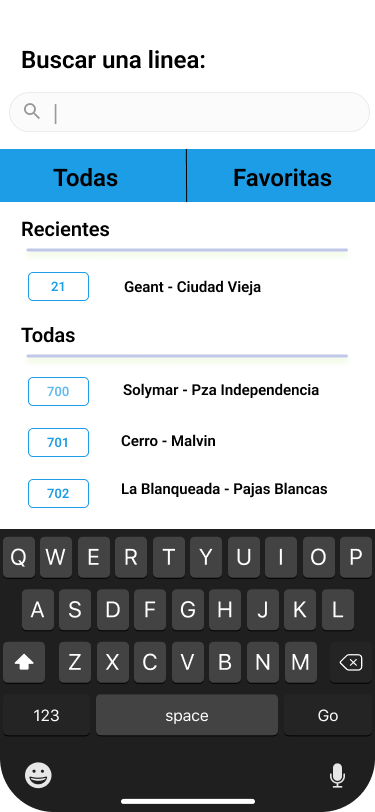
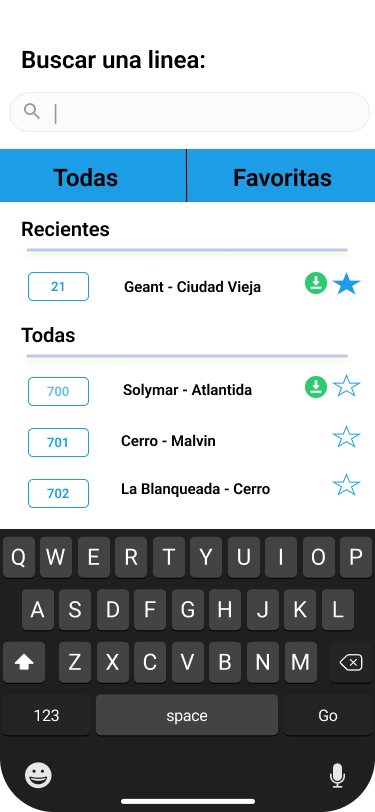
Finished adding user stories

diff --git a/Documentacion.md b/Documentacion.md
@@ -3,16 +3,6 @@ Pablo Tomas Martinez 241532.
 Amar Premchand 247766.
 Salvador Panissa 245625.
 
-# Sprint 1
-
-### Roles:
-
-Pablo Tomas Martinez (Developer).
-Amar Premchand (Scrum Master, Developer).
-Salvador Panissa (Product Owner).
-
-#### Responsabilidad de cada rol
-
 **Scrum Master:** El SM ayuda al Scrum Team a que funcione como equipo, que el mismo cree incrementos de alto valor que matchee la *Definition of Done*. 
 
 **Product Owner:** La responsabilidad del PO se basa en trasmitir al equipo de desarrollo el *Product Goal*. Prioriza las funcionalidades que van a ser desarrolladas para cada iteración y ayuda a que las mismas sean entendidas por los desarrolladores.
@@ -26,6 +16,17 @@ Se trata de inspeccionar que los items del Product Backlog sean comprendidos por
 
 ### Definition of Done:
 La definición de *Done* describe que es necesario para que el próximo incremento del producto pueda darse por finalizado y entregable a un usuario final.
+
+
+# Sprint 1
+
+### Roles:
+
+Pablo Tomas Martinez (Developer).
+Amar Premchand (Scrum Master, Developer).
+Salvador Panissa (Product Owner).
+
+#### Responsabilidad de cada rol
 
 # **Identificación del problema a resolver**
 
@@ -180,7 +181,7 @@ COMO usuario
 
 ## US1-E1:
 
-COMO montevideano
+COMO usuario
 
 QUIERO filtrar líneas de un listado
 
@@ -214,7 +215,7 @@ QUIERO un listado con las líneas cercanas a mi ubicación con información
 
 PARA elegir una línea sobre otra
 
-NOTA: información de parada de origen, destino y cantidad de pasajeros
+NOTA: información de parada de origen, destino.
 
 ### Criterios de Aceptación:
 
@@ -470,7 +471,7 @@ ENTONCES se le notifica al usuario
 
 ## US12-E4:
 
-COMO persona
+COMO usuario
 
 QUIERO conocer si mi línea se retrasó o tiene un desvío
 
@@ -605,7 +606,7 @@ A la vez, en el detalle del viaje, se puede acceder a las paradas mediante el bo
 
 
 #### US 9:
-Si nos encontramos en un viaje y clickeamos sobre el icono de compartir; podremos hacerlo a través de Whatsapp o mensajes a un contacto, tal como se muestra a continuación:
+Si nos encontramos en un viaje y clicábamos sobre el icono de compartir; podremos hacerlo a través de Whatsapp o mensajes a un contacto, tal como se muestra a continuación:
  
 <img src="images/live-travel.png"/>
 <br><br>
@@ -640,9 +641,9 @@ Salvador Panissa (Product Owner).
 
 ## Sprint planning 
 
-El objetivo de la siguiente sprint agregar funcionalidades de feedback para mejorar la experencia de usuario y agregar el modo offline, funcionalidad que nos diferenciará de la competencia. 
+El objetivo de la siguiente sprint agregar funcionalidades de feedback para mejorar la experiencia de usuario y agregar el modo offline, funcionalidad que nos diferenciará de la competencia. 
 
-Para este sprint contamos con una referencia de velocidad del equipo la cual fue de 28 puntos de trabajo en el sprint. Tomando en cuenta lo analizado en la retroespectiva, podemos esperar mejorar la comunicación y organización para así estar más atentos a los errores en esta sprint, de esta manera mejorar nuestra velocidad como equipo.
+Para este sprint contamos con una referencia de velocidad del equipo la cual fue de 28 puntos de trabajo en el sprint. Tomando en cuenta lo analizado en la retrospectiva, podemos esperar mejorar la comunicación y organización para así estar más atentos a los errores en esta sprint, de esta manera mejorar nuestra velocidad como equipo.
 
 ## Story map
 
@@ -667,9 +668,9 @@ A partir del objetivo del sprint y la priorización de las historias decidimos e
 Para la sección de registro decidimos crear una barra lateral donde el usuario podrá iniciar sesión o registrarse.
 
 <img src="images/Sidebar-NotLoggedIn.png"/>
-sidebarLogged VA ACA
+<img src="images/Sidebar-loggedIn.png">
 
-En el caso de que estemos loggeados entonces podremos agregar líneas y paradas a favoritos clickeando sobre "Líneas" y "Paradas" respectivamente en el menú principal y acceder a las mismas desde allí.
+En el caso de que estemos logueados entonces podremos agregar líneas y paradas a favoritos clickeando sobre "Líneas" y "Paradas" respectivamente en el menú principal y acceder a las mismas desde allí.
 
 <img src="images/favourite-lines.png"/>
 
@@ -680,32 +681,117 @@ Al momento de iniciar sesión tenemos la opción de olvidar nuestra contraseña,
 
 <img src="images/Login-Screen.png"/>
 
-Nos lleva a la siguiente pantalla donde ingresamos nuestro correo electrónico para que podamos recuperar nuestra cuenta.
+Si el usuario selecciona este botón se le envía un correo al email ingresado con instrucciones para recuperar la cuenta.
 
 <img src="images/forgot-password.png"/>
 
 #### US 6:
-A la hora de buscar las paradas, estas se deberian poder filtrar por paradas además de poder visualizar las paradas marcadas como favoritos.
+A la hora de buscar las paradas, estas se deberían poder filtrar por paradas además de poder visualizar las paradas marcadas como favoritos.
+
+<img src="images/filter-lines.png"/>
 
 
-<img src="images/filtrar-paradas.png"/>
+<img src="images/favourite-lines.png"/>
 
+#### US 2 - ID 8:
+Cuando el usuario selecciona un origen y un destino del viaje, aparecen todas las posibles combinaciones de trayectos que lo llevan a ese destino. Allí el usuario en base a sus preferencias de tiempo de viaje, cantidad de trasbordos, línea favorita, etc., puede decidir que viaje tomar.
 
-<img src="images/favourite-stops.png"/>
+<img src="images/found-routes.png">
 
+#### US 3 - ID 9:
+El usuario puede ver el tiempo estimado de llegada de su ómnibus en tiempo real una vez que selecciona la opción de iniciar viaje. 
 
-#### US 7:
-El usuario puede ver si ocurrió algo con el ómnibus que estaba esperando, si se retrasó u ocurrió algún inconveniente.
+#### US 4 - ID 10:
+El usuario puede registrarse a traves de la barra de navegación. 
+<img src="images/sidebar-NotLoggedIn.png">
+Una vez que se selecciona el botón de registro, se abre un modal con el formulario de registro.
+<img src="images/register.png">
+El usuario llena los campos y selecciona el botón de "Registrarse". Luego de eso se le envía un codigo de confirmación a su numero telefónico que luego es usado para verificar la cuenta.
+<img src="images/verify-phone.png">
+Una vez que se verifica el numero de teléfono, el usuario puede iniciar sesión con su cuenta en seleccionando la opción de login.
 
-<img src="images/live-travel-late-bus.png"/>
+#### US6 - ID 12:
+Una vez que el usuario esta registrado, el mismo puede editar su información personal, como por ejemplo el numero de teléfono, el email, etc. Esto se puede hacer desde la barra de navegación, seleccionando la opción de "Mi información".
+<img src="images/sidebar-LoggedIn.png">
+Seleccionando la opción de "Mi información" se abre un modal con la información del usuario.
+<img src="images/change-user-information.png">
+Una vez que el usuario selecciona el botón de guardar los cambios estos quedan efectuados
 
-#### US NRO:
+#### US 7 - ID 13:
+El usuario puede ver las paradas de su viaje de dos maneras, una es mediante el mapa cuando el usuario esta en modo viaje. 
+<img src="images/live-travel.png">
+Como se puede ver en el mapa, los puntos violetas son las paradas. Las paradas por las cuales el usuario ya paso se muestran con un circulo con relleno blanco y las paradas por las cuales el usuario aun no paso se muestran en color violeta.
 
-#### US NRO:
+La otra es mediante el detalle del viaje, presionando el botón verde.
+
+<img src="images/live-travel-detail.png">
+
+Presionando este botón abre un modal con el detalle de las paradas y el tiempo que falta por llegar a las mismas.
+
+<img src="images/view-stops.png">
+
+#### US 8 - ID 14:
+Una vez que el usuario selecciona el botón de iniciar viaje, se le muestra un modal con el detalle del viaje, el cual incluye el tiempo estimado de llegada, el tiempo que falta para llegar a la parada, el tiempo que falta para llegar al destino, el tiempo que lleva llegar al destino.
+
+<img src="images/Travel-Mode-map-detail.png">
+
+Presionando este botón podemos ver el modal con el detalle del viaje.
+
+<img src="images/live-travel.png">
+<img src="images/live-travel-detail.png">
+
+#### US11 - ID 16:
+Una vez que el usuario se encuentra en un viaje, la aplicación envía notificaciones al usuario cuando el viaje esta por comenzar y cuando el viaje esta por finalizar.
+
+<img src="images/Notification-bus-arriving.png">
+<img src="images/Notification-arriving-destiny.png">
+
+#### US 12 - ID 17:
+El usuario puede ver el tiempo estimado de llegada de su ómnibus en tiempo real una vez que selecciona la opción de iniciar viaje.
+Si el omnibus viene retrasado se muestra en rojo el nuevo tiempo esperado de llegada.
+
+<img src="images/live-travel-late-bus.png">
+
+#### US 13 - ID 19:
+El usuario puede descargar la información de las líneas ingresando al botón inferior de ver líneas. 
+<img src="images/main-screen.png">
+Una vez que el usuario selecciona el botón de ver líneas, se le muestra un modal con el listado de las líneas.
+<img src="images/search-line60.png">
+Desde este modal, el usuario puede buscar o seleccionar la línea que desea descargar. Apretando esa línea, se amplia la información de la misma.
+<img src="images/download-line60.png">
+Una vez que el usuario amplia la información, se le muestra un modal con la información de la línea y el botón de descargar.
+Si el usuario presiona este botón, esta línea es descargada. Luego puede acceder a ella desde el botón de "Líneas" en la pantalla principal. Donde mediante un icono verde se indica que la línea esta descargada
+<img src="images/downloaded-line60.png">
+
+#### Burndown Chart
+<img src="images/burndown-sprint3.jpg">
 
 ## Validación con usuarios
+Se realizaron entrevistas a posibles usuarios para validar el producto. Los posibles usuarios seleccionados fueron personas que usan el transporte público en la ciudad de Montevideo. Estos fueron:
+- Usuario 1: 21 años, estudiante de ingeniería, usa el transporte público 4 veces por semana.
+- Usuario 2: 24 años, estudiante de ingeniería, usa el transporte público 2 veces por semana.
+- Usuario 3: 27 años, estudiante de derecho, usa el transporte público todos los días semana.
+
+Los usuarios fueron entrevistados en la oficina de la empresa. Se les mostró el producto y se les pidió que lo usaran. Luego se les hizo una serie de preguntas para validar el producto. Las preguntas fueron:
+#### ¿Qué te parece el diseño del producto?
+En general tanto al usuario 1 como al usuario 2 les pareció intuitiva la interfaz del producto. El usuario 1 dijo que le gustó el diseño y el usuario 2 dijo que le pareció muy intuitivo. Por el lado del usuario 3 le agradó cómo se le informa al usuario sobre los casos erróneos de acciones, cómo las validaciones de las funcionalidades que requieren el uso de internet.
+#### ¿Qué te parece la usabilidad del producto?
+A todos los usuarios les pareció que la usabilidad del producto era óptima, dijeron que como la aplicación facilita la lectura de los textos y presentan funciones y menús sencillos. Una cosa que nos comentó el usuario 2 es que le gustaría que la aplicación brindara la opción de ingresar sesión con google y nos pareció una funcionalidad que podría aportar valor al producto por lo que en la daily meet se propuso implementarla. Al usuario 3 le hubiese gustado que la aplicación tenga su versión en otro idioma, ya sea el inglés, debido a que conoce a mucha gente de otros países que desconocen el idioma de español.
+#### ¿Qué te parecen las funcionalidades del producto?
+A ambos les gustaron las funcionalidades que brindaba la aplicación. El usuario 1 dijo que era todo lo que esperaba de una aplicación de transporte. En relación al diseño de la aplicación, el usuario 1 planteo la posibilidad de poder marcar a las líneas como favoritas mediante un simple botón reactivo. Por ello fue que se diseñó el componente de la estrella que representa las líneas marcadas como favoritas. El usuario 2 dijo que a pesar de que las funcionalidades que provee la aplicación son de suma utilidad, una buena funcionalidad para agregarle a la misma seria la posibilidad de poder pagar el boleto de transporte mediante la app con el fin de evitar usar dinero en efectivo. Nos pareció una buena idea y se discutió la posibilidad de agregarla pero requería un cambio grande en la infraestructura de la aplicación por lo que decidimos no prover esa funcionalidad.
+#### ¿Qué te parece la información que se muestra en el detalle de la línea?
+Al usuario 3 le pareció de gran utilidad ya que al transportarse en ómnibus todos los días, le sirve para ver dónde es la parada que más cercana que le sirva desde un origen que no suele frecuentar. Por otro lado, a los otros dos usuarios les encantó también, pero no es algo que usarían tanto ya que lo usan para ir a lugares conocidos, si no conocen ese lugar, usan algún otro medio de transporte.
+#### Evidencia de entrevistas
+##### Entrevista con los usuarios 1 y 2
+<img src="images/entrevista_1.png">
+
+
+
+## Adaptación de Daily Scrum
+
+Con respecto a las "Daily Scrum", el equipo siguió un orden estipulado para que cada integrante pueda informar a los demás sobre las tareas que había hecho y las que va a realizar en un futuro. Este orden establecido era por orden alfabético de los nombres de los integrantes del equipo. Cada vez que le tocaba hablar a alguno no sólo se informaba de lo trabajado, sino que también si precisaba ayuda en alguna tarea y también algún detalle que se consideraba informarle al equipo (por ejemplo los días de licencia).
 
 ## Sprint Review y Sprint Retrospective
 
-Gracias a la retroespectiva de la última iteración pudimos mejorar la comunicación del equipo, esto junto con una mayor organización y mejor dominio del problema conllevo a que el equipo haya tenido un mejor desempeñado en la sprint. Lo anterior se vió traducido en la velocidad del equipo, cumplimiento con el objetivo y planeación de la iteración y eficiencia del equipo.
+Gracias a la retrospectiva de la última iteración pudimos mejorar la comunicación del equipo, esto junto con una mayor organización y mejor dominio del problema conllevo a que el equipo haya tenido un mejor desempeñado en la sprint. Lo anterior se vio traducido en la velocidad del equipo, cumplimiento con el objetivo y planeación de la iteración y eficiencia del equipo.
 
